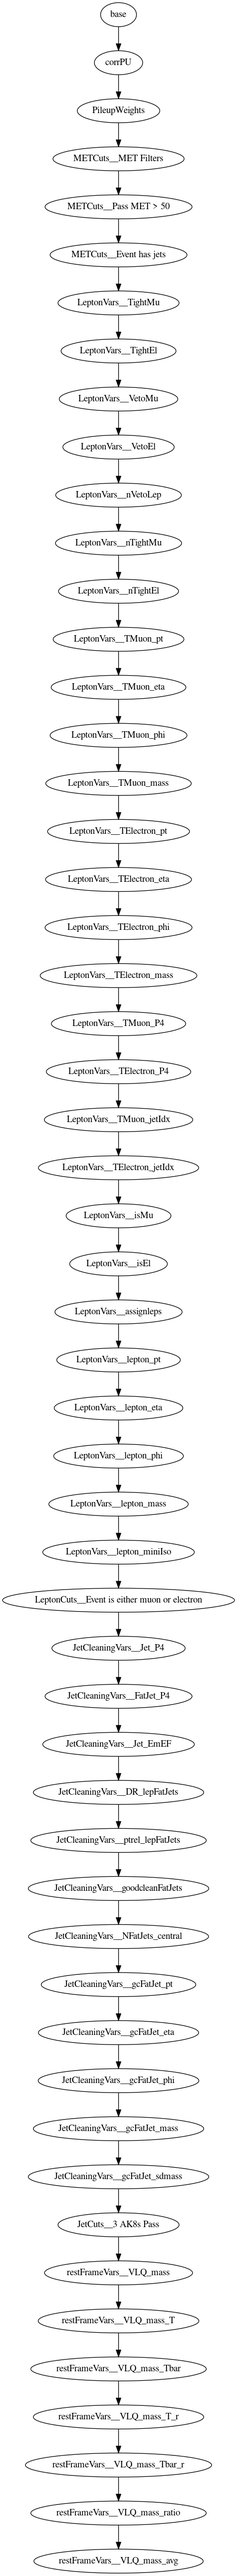
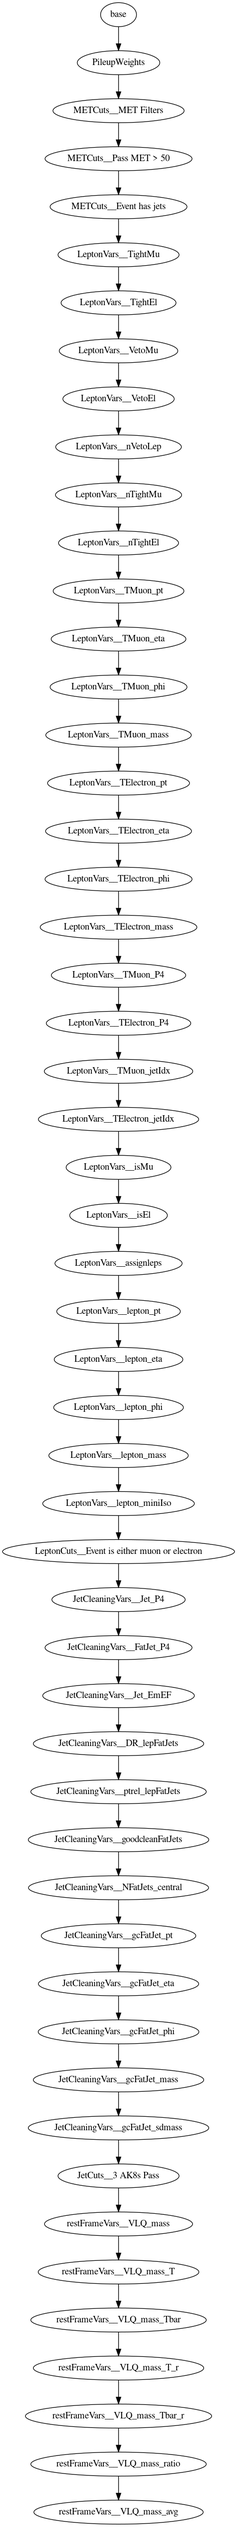
Made corrPU not a collumn of the RDF

diff --git a/examples/Tprime1lep.py b/examples/Tprime1lep.py
@@ -38,19 +38,14 @@ a = analyzer(file_name)
 print('==========================INITIALIZED ANALYZER========================')
 
 # Get correctionsLib
-#yrstr = "2018"
-#yr = "18"
-ROOT.gInterpreter.Declare('string yrstr = "2018"; string yr = "18"; ')
-ROOT.gInterpreter.Declare('auto csetPU = correction::CorrectionSet::from_file("jsonpog-integration/POG/LUM/"+yrstr+"_UL/puWeights.json");')
-#ROOT.gInterpreter.Declare('auto corrPU = csetPU->at("Collisions"+yr+"_UltraLegacy_goldenJSON");')
-#corrPUint = ROOT.corrPU
-
-#print(ROOT.addressof(corrPUint)
-
-#ROOT.gInterpreter.Declare('auto pufunc = [corrPU](const float &numTrueInt){ RVec<double> pu = {corrPU->evaluate({numTrueInt, "nominal"}), corrPU->evaluate({numTrueInt, "up"}), corrPU->evaluate({numTrueInt, "down"})}; return pu; };')
+ROOT.gInterpreter.Declare("""
+string yrstr = "2018"; 
+string yr = "18"; 
+auto csetPU = correction::CorrectionSet::from_file("jsonpog-integration/POG/LUM/"+yrstr+"_UL/puWeights.json");
+auto corrPU = csetPU->at("Collisions"+yr+"_UltraLegacy_goldenJSON");
+""")
 
 # Golden JSON Data
-a.Define("corrPU", 'csetPU->at("Collisions"+yr+"_UltraLegacy_goldenJSON")')
 a.Define("PileupWeights", "pufunc(corrPU, Pileup_nTrueInt)")
 
 # ------------------ MET Cuts ------------------
